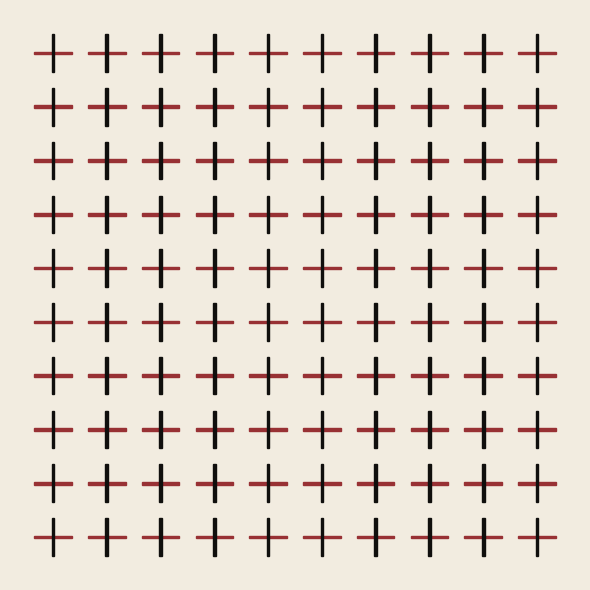
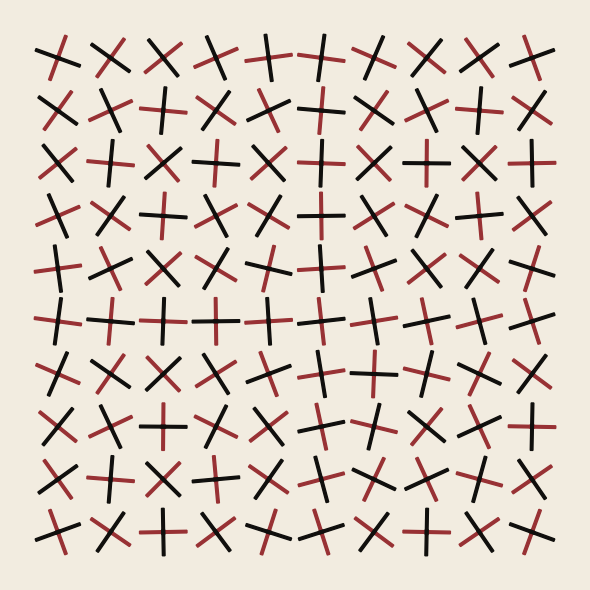
Julio Le Parc: implement patch design for Red and Black (RiRaB)

Changed region(s): [[0.061, 0.061, 0.9458, 0.9458]]

diff --git a/julio-le-parc-replications/master_script.py b/julio-le-parc-replications/master_script.py
@@ -268,22 +268,37 @@ def plot_fractioned_circle_patch(
     return (dark_patch, light_patch, clip_patch)
 
 
-def plot_simple_cross(centre, base_theta, colour_1, colour_2):
+def create_cross_line(ax, centre, length, width, colour, angle):
     """ TODO. """
-    # Define two lines perpendicular to each other as patches
-    length = 0.7
-    width = 0.05
-    cen_1, cen_2 = centre[0], centre[1]
+    lines = []
+    for theta in (angle, angle + 180):  # two parallel half-lines from centre
+        lines.append(
+            mpatches.Rectangle(
+                (centre[0] - width, centre[1] - (width / 2.0)),  # normalised
+                length, width, color=colour,
+                transform=mtransforms.Affine2D().rotate_deg_around(
+                    *centre, theta) + ax.transData,
+            )
+        )
+    return lines
 
-    # Adding and subtracting some width/length so central despite any width:
-    line_1 = mpatches.Rectangle(
-        (cen_1 - width, cen_2 + (length-width) / 2.0),
-        length, width, base_theta, color=colour_1)
-    line_2 = mpatches.Rectangle(
-        (cen_1 + (length-width) / 2.0, cen_2),
-        length, width, base_theta + 90, color=colour_2
+
+def plot_simple_cross(centre, base_theta, colour_1, colour_2, ax):
+    """ TODO. """
+    half_length = 0.5
+    width = 0.05
+
+    # Define two lines perpendicular to each other as patches
+    cross_lines = (
+        create_cross_line(
+            ax, centre, half_length, width, colour_1, base_theta) +
+        create_cross_line(
+            ax, centre, half_length, width, colour_2,
+            base_theta + 90
+        )
     )
-    return line_1, line_2
+
+    return cross_lines
 
 
 def plot_mutation_of_forms(axes):
@@ -371,18 +386,25 @@ def plot_rotation_of_fractioned_circles(axes):
 def plot_rotation_in_red_and_black(axes):
     """ TODO. """
     design_name = "ROTATION IN RED AND BLACK"
-    grid_points = range(
-        NUMBER_GRIDPOINTS_PER_SIDE[design_name])
+    points = NUMBER_GRIDPOINTS_PER_SIDE[design_name]
+    grid_points = range(points)
+
+    # TODO: using RoFC angles array as a placeholder. Find actual!
+    angles_array = create_fractioned_angles_array(
+        grid_points,
+        number_points_per_side=points
+    )
     for i, j in itertools.product(grid_points, grid_points):
         # Now create and plot the wedges onto the canvas:
         position_xy = (IMAGE_PAD_POINTS + i, IMAGE_PAD_POINTS + j)
-        red_line, black_line = plot_simple_cross(
-            position_xy, 0,
+        line_patches = plot_simple_cross(
+            position_xy, angles_array[i][j],
             COLOURS[design_name]["RED"],
             COLOURS[design_name]["OFF BLACK"],
+            axes
         )
-        axes.add_patch(red_line)
-        axes.add_patch(black_line)
+        for line in line_patches:
+            axes.add_patch(line)
 
 
 def format_canvas(design_name, patch_creation_func):
@@ -419,7 +441,7 @@ def plot_and_save_design(design_name, plot_func, save_dir):
     # # import uuid
     plt.savefig(
         'img/{}/replication_of_original.png'.format(save_dir),
-        # # 'img/rotation_of_fractioned_circles/variations_on_rotation_angles/'
+        # # 'img/rotation_in_red_and_black/misc_variations/'
         # # '{}.png'.format(uuid.uuid4()),
         format='png',
         bbox_inches='tight',
@@ -428,8 +450,7 @@ def plot_and_save_design(design_name, plot_func, save_dir):
 
 
 # Plot all four designs
-# TODO: note that only 1, 2 and 3 are complete; 4 is under development,
-# hence commented out for the moment.
+"""
 plot_and_save_design(
     "MUTATION OF FORMS", plot_mutation_of_forms, "mutation_of_forms")
 plot_and_save_design("ROTATIONS", plot_rotations, "rotations")
@@ -442,6 +463,5 @@ plot_and_save_design(
     "ROTATION IN RED AND BLACK", plot_rotation_in_red_and_black,
     "rotation_in_red_and_black"
 )
-"""
 
 plt.show()
